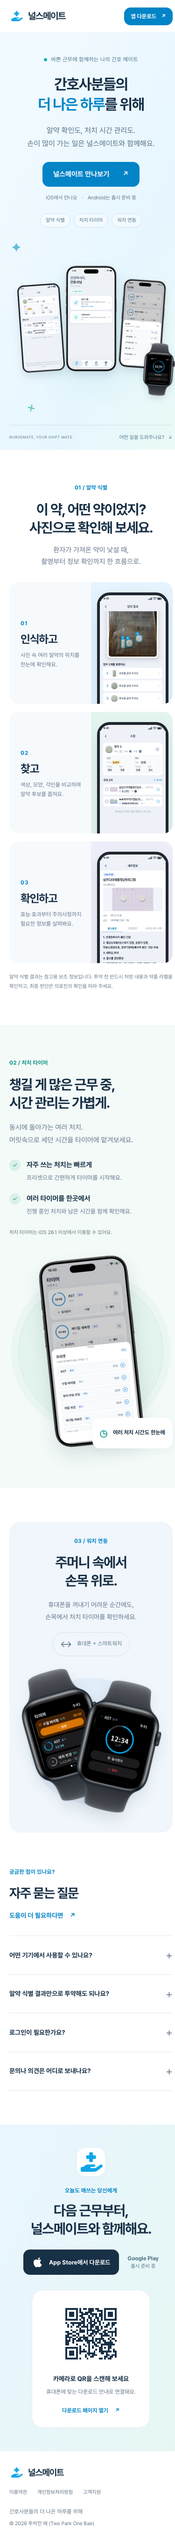
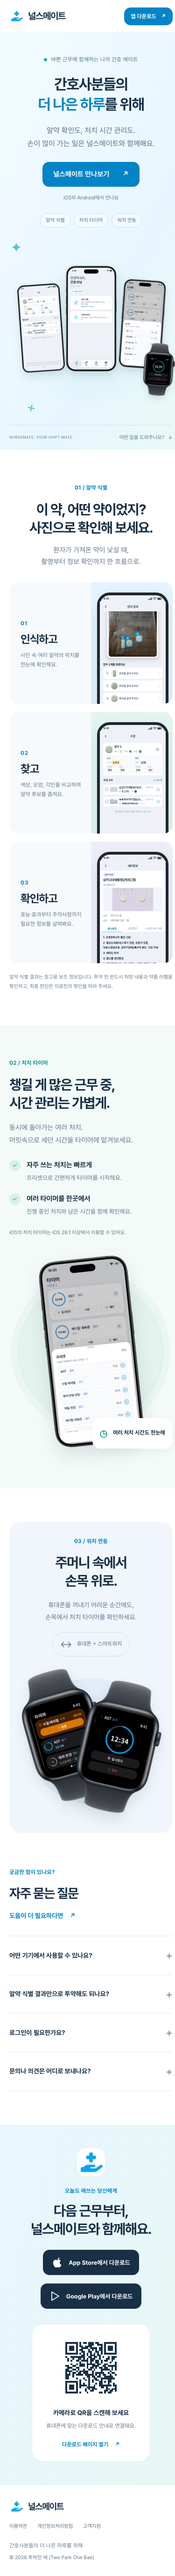
[NM-344] feat: Android 출시 안내 및 Google Play 설치 연결 반영

diff --git a/index.html b/index.html
@@ -21,7 +21,7 @@
   <link rel="icon" type="image/png" href="assets/app-icon.png">
   <link rel="stylesheet" href="landing.css">
   <script type="application/ld+json">
-  {"@context":"https://schema.org","@type":"SoftwareApplication","name":"널스메이트","alternateName":"NurseMate","url":"https://www.nursemate.app/","image":"https://www.nursemate.app/assets/app-icon.png","applicationCategory":"MedicalApplication","operatingSystem":"iOS 17.0 이상","downloadUrl":"https://apps.apple.com/kr/app/id6783877557","description":"간호사를 위한 알약 식별, 처치 타이머 및 워치 연동 앱. 처치 타이머는 iOS 26.1 이상에서 이용할 수 있습니다."}
+  {"@context":"https://schema.org","@type":"SoftwareApplication","name":"널스메이트","alternateName":"NurseMate","url":"https://www.nursemate.app/","image":"https://www.nursemate.app/assets/app-icon.png","applicationCategory":"MedicalApplication","operatingSystem":["iOS 17.0 이상","Android"],"downloadUrl":["https://apps.apple.com/kr/app/id6783877557","https://play.google.com/store/apps/details?id=app.nursemate&hl=ko"],"description":"간호사를 위한 알약 식별, 처치 타이머 및 워치 연동 앱. iOS의 처치 타이머는 iOS 26.1 이상에서 이용할 수 있습니다."}
   </script>
 </head>
 <body>
@@ -36,7 +36,7 @@
         <h1>간호사분들의<br><span>더 나은 하루</span>를 위해</h1>
         <p class="hero-description">알약 확인도, 처치 시간 관리도.<br>손이 많이 가는 일은 널스메이트와 함께해요.</p>
         <a class="button" href="#download">널스메이트 만나보기 <span aria-hidden="true">↗</span></a>
-        <p class="availability">iOS에서 만나요 <span aria-hidden="true">·</span> Android는 출시 준비 중</p>
+        <p class="availability">iOS와 Android에서 만나요</p>
         <div class="hero-tags"><span>알약 식별</span><span>처치 타이머</span><span>워치 연동</span></div>
       </div>
       <div class="hero-visual"><div class="hero-orbit" aria-hidden="true"></div><span class="spark spark-one" aria-hidden="true">✦</span><span class="spark spark-two" aria-hidden="true">＋</span>
@@ -52,14 +52,14 @@
     </div></section>
     <section class="section timer-section"><div class="container feature-grid">
       <div class="timer-visual"><div class="timer-ring" aria-hidden="true"></div><div class="phone timer-phone"><img class="device-screen" src="assets/screen-04-timer.png" width="1170" height="2532" alt="여러 처치의 남은 시간을 관리하는 타이머 화면" loading="lazy"><img class="device-frame" src="assets/frame-iphone16pro-black.png" width="1278" height="2652" alt=""></div><div class="timer-caption"><span aria-hidden="true">◷</span> 여러 처치 시간도 한눈에</div></div>
-      <div class="feature-copy"><p class="eyebrow teal">02 / 처치 타이머</p><h2>챙길 게 많은 근무 중,<br>시간 관리는 가볍게.</h2><p class="section-description">동시에 돌아가는 여러 처치.<br>머릿속으로 세던 시간을 타이머에 맡겨보세요.</p><ul class="feature-list"><li><span aria-hidden="true">✓</span><div><strong>자주 쓰는 처치는 빠르게</strong><p>프리셋으로 간편하게 타이머를 시작해요.</p></div></li><li><span aria-hidden="true">✓</span><div><strong>여러 타이머를 한곳에서</strong><p>진행 중인 처치와 남은 시간을 함께 확인해요.</p></div></li></ul><p class="fine-print">처치 타이머는 iOS 26.1 이상에서 이용할 수 있어요.</p></div>
+      <div class="feature-copy"><p class="eyebrow teal">02 / 처치 타이머</p><h2>챙길 게 많은 근무 중,<br>시간 관리는 가볍게.</h2><p class="section-description">동시에 돌아가는 여러 처치.<br>머릿속으로 세던 시간을 타이머에 맡겨보세요.</p><ul class="feature-list"><li><span aria-hidden="true">✓</span><div><strong>자주 쓰는 처치는 빠르게</strong><p>프리셋으로 간편하게 타이머를 시작해요.</p></div></li><li><span aria-hidden="true">✓</span><div><strong>여러 타이머를 한곳에서</strong><p>진행 중인 처치와 남은 시간을 함께 확인해요.</p></div></li></ul><p class="fine-print">iOS의 처치 타이머는 iOS 26.1 이상에서 이용할 수 있어요.</p></div>
     </div></section>
     <section class="section watch-section"><div class="container watch-panel">
       <div class="feature-copy"><p class="eyebrow blue">03 / 워치 연동</p><h2>주머니 속에서<br>손목 위로.</h2><p class="section-description">휴대폰을 꺼내기 어려운 순간에도,<br>손목에서 처치 타이머를 확인하세요.</p><span class="watch-label"><span aria-hidden="true">↔</span> 휴대폰 + 스마트워치</span></div>
       <div class="watch-visual"><div class="watch-halo" aria-hidden="true"></div><div class="watch watch-back"><img class="watch-screen" src="assets/watch-01-timer-list.png" width="1188" height="1452" loading="lazy" alt="워치 처치 타이머 목록 화면 예시"><img class="watch-frame" src="assets/frame-applewatch-se-midnight.png" width="750" height="1200" loading="lazy" alt=""></div><div class="watch watch-front"><img class="watch-screen" src="assets/watch-02-timer-detail.png" width="1188" height="1452" loading="lazy" alt="워치 타이머 상세 화면 예시"><img class="watch-frame" src="assets/frame-applewatch-se-midnight.png" width="750" height="1200" loading="lazy" alt=""></div></div>
     </div></section>
-    <section class="section faq-section" id="faq"><div class="container faq-grid"><div><p class="eyebrow blue">궁금한 점이 있나요?</p><h2>자주 묻는 질문</h2><a class="text-link" href="support/">도움이 더 필요하다면 <span aria-hidden="true">↗</span></a></div><div class="faq-list"><details><summary>어떤 기기에서 사용할 수 있나요?<span aria-hidden="true">+</span></summary><p>현재 iOS 앱을 App Store에서 다운로드할 수 있어요. 앱은 iOS 17 이상, 처치 타이머는 iOS 26.1 이상에서 이용할 수 있습니다. Android 앱은 출시 준비 중이에요.</p></details><details><summary>알약 식별 결과만으로 투약해도 되나요?<span aria-hidden="true">+</span></summary><p>알약 식별 결과는 참고용 보조 정보예요. 투약 전 반드시 처방 내용과 약품 라벨을 확인하고, 최종 판단은 의료진의 확인을 따라 주세요.</p></details><details><summary>로그인이 필요한가요?<span aria-hidden="true">+</span></summary><p>네, 널스메이트는 로그인 후 이용할 수 있어요. Google, Apple, 카카오 계정으로 시작할 수 있습니다.</p></details><details><summary>문의나 의견은 어디로 보내나요?<span aria-hidden="true">+</span></summary><p><a href="support/">지원 페이지</a>를 방문하거나 <a href="mailto:2park1bae@gmail.com">2park1bae@gmail.com</a>으로 보내주세요. 현장의 의견을 기다리고 있어요.</p></details></div></div></section>
-    <section class="download-section" id="download"><div class="container download-grid"><div><img class="download-icon" src="assets/app-icon.png" width="68" height="68" loading="lazy" alt="널스메이트 앱 아이콘"><p class="eyebrow blue">오늘도 애쓰는 당신에게</p><h2>다음 근무부터,<br>널스메이트와 함께해요.</h2><div class="store-buttons"><a class="button store-button" href="https://apps.apple.com/kr/app/id6783877557"><svg viewBox="0 0 24 24" width="24" height="24" aria-hidden="true"><path fill="currentColor" d="M16.5 2c.1 1.1-.4 2.1-1.1 2.9-.8.8-1.8 1.3-2.9 1.2-.1-1 .4-2.1 1.1-2.8.8-.8 1.9-1.3 2.9-1.3ZM20.8 17.3c-.5 1.2-.8 1.7-1.5 2.7-.9 1.2-2.1 2.7-3.6 2.7-1.3 0-1.6-.8-3.4-.8s-2.1.8-3.4.8c-1.5.1-2.6-1.3-3.5-2.5C2.9 16.7 2.2 11.8 3.7 9.2c1.1-1.9 2.9-3 4.6-3 1.4 0 2.3.8 3.5.8 1.1 0 1.9-.8 3.5-.8 1.4 0 3 .8 4.1 2.1-3.6 2-3 7.1 1.4 9Z"/></svg>App Store에서 다운로드</a><span class="android-pending">Google Play <span>출시 준비 중</span></span></div></div><div class="qr-card"><img src="assets/download-qr.svg" width="156" height="156" loading="lazy" alt="널스메이트 다운로드 페이지로 연결되는 QR 코드"><strong>카메라로 QR을 스캔해 보세요</strong><p>휴대폰에 맞는 다운로드 안내로 연결돼요.</p><a class="text-link" href="download/">다운로드 페이지 열기 <span aria-hidden="true">↗</span></a></div></div></section>
+    <section class="section faq-section" id="faq"><div class="container faq-grid"><div><p class="eyebrow blue">궁금한 점이 있나요?</p><h2>자주 묻는 질문</h2><a class="text-link" href="support/">도움이 더 필요하다면 <span aria-hidden="true">↗</span></a></div><div class="faq-list"><details><summary>어떤 기기에서 사용할 수 있나요?<span aria-hidden="true">+</span></summary><p>iOS는 App Store에서, Android는 Google Play에서 다운로드할 수 있어요. iOS 앱은 iOS 17 이상, iOS의 처치 타이머는 iOS 26.1 이상에서 이용할 수 있습니다.</p></details><details><summary>알약 식별 결과만으로 투약해도 되나요?<span aria-hidden="true">+</span></summary><p>알약 식별 결과는 참고용 보조 정보예요. 투약 전 반드시 처방 내용과 약품 라벨을 확인하고, 최종 판단은 의료진의 확인을 따라 주세요.</p></details><details><summary>로그인이 필요한가요?<span aria-hidden="true">+</span></summary><p>네, 널스메이트는 로그인 후 이용할 수 있어요. Google, Apple, 카카오 계정으로 시작할 수 있습니다.</p></details><details><summary>문의나 의견은 어디로 보내나요?<span aria-hidden="true">+</span></summary><p><a href="support/">지원 페이지</a>를 방문하거나 <a href="mailto:2park1bae@gmail.com">2park1bae@gmail.com</a>으로 보내주세요. 현장의 의견을 기다리고 있어요.</p></details></div></div></section>
+    <section class="download-section" id="download"><div class="container download-grid"><div><img class="download-icon" src="assets/app-icon.png" width="68" height="68" loading="lazy" alt="널스메이트 앱 아이콘"><p class="eyebrow blue">오늘도 애쓰는 당신에게</p><h2>다음 근무부터,<br>널스메이트와 함께해요.</h2><div class="store-buttons"><a class="button store-button" href="https://apps.apple.com/kr/app/id6783877557"><svg viewBox="0 0 24 24" width="24" height="24" aria-hidden="true"><path fill="currentColor" d="M16.5 2c.1 1.1-.4 2.1-1.1 2.9-.8.8-1.8 1.3-2.9 1.2-.1-1 .4-2.1 1.1-2.8.8-.8 1.9-1.3 2.9-1.3ZM20.8 17.3c-.5 1.2-.8 1.7-1.5 2.7-.9 1.2-2.1 2.7-3.6 2.7-1.3 0-1.6-.8-3.4-.8s-2.1.8-3.4.8c-1.5.1-2.6-1.3-3.5-2.5C2.9 16.7 2.2 11.8 3.7 9.2c1.1-1.9 2.9-3 4.6-3 1.4 0 2.3.8 3.5.8 1.1 0 1.9-.8 3.5-.8 1.4 0 3 .8 4.1 2.1-3.6 2-3 7.1 1.4 9Z"/></svg>App Store에서 다운로드</a><a class="button store-button" href="https://play.google.com/store/apps/details?id=app.nursemate&amp;hl=ko"><svg viewBox="0 0 24 24" width="24" height="24" aria-hidden="true"><path d="m5 3 15 9-15 9V3Z" fill="none" stroke="currentColor" stroke-width="1.8" stroke-linejoin="round"/></svg>Google Play에서 다운로드</a></div></div><div class="qr-card"><img src="assets/download-qr.svg" width="156" height="156" loading="lazy" alt="널스메이트 다운로드 페이지로 연결되는 QR 코드"><strong>카메라로 QR을 스캔해 보세요</strong><p>휴대폰에 맞는 다운로드 안내로 연결돼요.</p><a class="text-link" href="download/">다운로드 페이지 열기 <span aria-hidden="true">↗</span></a></div></div></section>
   </main>
   <footer class="site-footer"><div class="container"><div class="footer-top"><a class="brand" href="./"><img src="assets/app-icon.png" width="32" height="32" alt=""><span>널스메이트</span></a><nav aria-label="서비스 정보"><a href="terms/">이용약관</a><a href="privacy/">개인정보처리방침</a><a href="support/">고객지원</a></nav></div><div class="footer-bottom"><span>간호사분들의 더 나은 하루를 위해</span><span>© 2026 투박한 배 (Two Park One Bae)</span></div></div></footer>
 </body>

diff --git a/download/index.html b/download/index.html
@@ -5,7 +5,7 @@
   <meta name="viewport" content="width=device-width, initial-scale=1">
   <meta name="robots" content="noindex, follow">
   <title>널스메이트 다운로드</title>
-  <meta name="description" content="휴대폰에 맞는 널스메이트 앱을 다운로드하세요. iOS 출시 완료, Android 출시 준비 중.">
+  <meta name="description" content="휴대폰에 맞는 널스메이트 앱을 다운로드하세요. App Store와 Google Play에서 만나보세요.">
   <link rel="icon" href="../assets/app-icon.png">
   <link rel="stylesheet" href="../landing.css">
   <script src="download.js" defer></script>
@@ -15,13 +15,12 @@
     <img class="download-icon" src="../assets/app-icon.png" width="68" height="68" alt="널스메이트 앱 아이콘">
     <p class="eyebrow blue">나의 간호 메이트</p>
     <h1>널스메이트 다운로드</h1>
-    <p class="download-status" id="download-status" aria-live="polite">iPhone에서는 App Store에서 다운로드해 주세요.<br>Android 앱은 출시 준비 중이에요.</p>
+    <p class="download-status" id="download-status" aria-live="polite">사용 중인 기기에 맞는 스토어를 선택해 주세요.<br>iPhone은 App Store, Android는 Google Play에서 다운로드할 수 있어요.</p>
     <div class="store-buttons">
       <a class="button store-button" id="ios-link" href="https://apps.apple.com/kr/app/id6783877557">App Store에서 다운로드 <span aria-hidden="true">↗</span></a>
-      <a class="button store-button" id="android-link" hidden>Google Play에서 다운로드 <span aria-hidden="true">↗</span></a>
-      <span class="android-pending" id="android-pending">Google Play <span>출시 준비 중</span></span>
+      <a class="button store-button" id="android-link" href="https://play.google.com/store/apps/details?id=app.nursemate&amp;hl=ko">Google Play에서 다운로드 <span aria-hidden="true">↗</span></a>
     </div>
-    <p class="manual-note">자동으로 연결되지 않으면 위 버튼을 눌러 주세요.<br>iOS 17 이상 · 처치 타이머는 iOS 26.1 이상</p>
+    <p class="manual-note">자동으로 연결되지 않으면 위 버튼을 눌러 주세요.<br>iOS 앱: iOS 17 이상 · iOS 처치 타이머: iOS 26.1 이상</p>
     <a class="text-link" href="../">널스메이트 알아보기 <span aria-hidden="true">→</span></a>
   </main>
 </body>

diff --git a/download/download.js b/download/download.js
@@ -1,9 +1,9 @@
 'use strict';
 
-// Android 출시 후 공개된 Google Play URL을 입력합니다.
+// 공개된 앱 설치 주소. HTML에도 수동 설치 링크를 제공합니다.
 const STORE_LINKS = Object.freeze({
   ios: 'https://apps.apple.com/kr/app/id6783877557',
-  android: null,
+  android: 'https://play.google.com/store/apps/details?id=app.nursemate&hl=ko',
 });
 
 function detectPlatform(navigatorInfo) {
@@ -17,16 +17,7 @@ function detectPlatform(navigatorInfo) {
 
 const platform = detectPlatform(navigator);
 const statusText = document.getElementById('download-status');
-if (STORE_LINKS.android) {
-  const androidLink = document.getElementById('android-link');
-  androidLink.href = STORE_LINKS.android;
-  androidLink.hidden = false;
-  document.getElementById('android-pending').hidden = true;
-}
-
-if (platform === 'android' && !STORE_LINKS.android) {
-  statusText.textContent = 'Android 앱은 출시 준비 중이에요. 조금만 기다려 주세요!';
-} else if (STORE_LINKS[platform]) {
+if (STORE_LINKS[platform]) {
   statusText.textContent = platform === 'ios'
     ? 'App Store로 이동하고 있어요. 연결되지 않으면 아래 버튼을 눌러 주세요.'
     : 'Google Play로 이동하고 있어요. 연결되지 않으면 아래 버튼을 눌러 주세요.';

diff --git a/README.md b/README.md
@@ -5,7 +5,7 @@ App Store 심사 필수 URL(개인정보처리방침·지원)을 호스팅하고
 
 ## 구성
 - `/` — 랜딩
-- `/download/` — QR 다운로드 연결 (iOS: App Store, Android: 출시 준비 안내)
+- `/download/` — QR 다운로드 연결 (iOS: App Store, Android: Google Play)
 - `/privacy/` — 개인정보처리방침 (내용: NM-299)
 - `/support/` — 지원 (내용: NM-300)
 - `/terms/` — 이용약관
@@ -23,7 +23,7 @@ App Store 심사 필수 URL(개인정보처리방침·지원)을 호스팅하고
 python3 -m http.server 8000
 ```
 
-브라우저에서 `http://localhost:8000/`을 연다. 랜딩·다운로드는 `landing.css`, 지원·정책 페이지는 `styles.css`를 사용한다.
+브라우저에서 `http://localhost:8000/`을 연다. 랜딩·지원·다운로드는 `landing.css`, 정책 페이지는 `styles.css`를 사용한다.
 
 ## 시안 검토
 
@@ -33,4 +33,4 @@ python3 -m http.server 8000
 - [지원 페이지 모바일 시안](docs/preview/support-mobile.png)
 - 검토 항목: 메인 화면의 폰·워치 배치, 실제 앱 화면의 가독성, 기능 설명, 다운로드 안내.
 
-QR의 목적지는 `https://www.nursemate.app/download/`이므로 해당 경로를 배포한 뒤 실제 QR 연결을 확인한다. Android 출시 시 `download/download.js`의 `STORE_LINKS.android`와 출시 안내 문구를 갱신한다. Google Search Console·네이버 서치어드바이저 소유권 확인 및 사이트맵 제출은 별도 등록 작업이다.
+QR의 목적지는 `https://www.nursemate.app/download/`이므로 해당 경로를 배포한 뒤 실제 QR 연결을 확인한다. iPhone·iPad는 App Store로, Android는 Google Play로 자동 연결한다. PC와 JavaScript가 꺼진 환경에서는 두 스토어의 수동 설치 링크를 제공한다. Google Search Console·네이버 서치어드바이저 소유권 확인 및 사이트맵 제출은 별도 등록 작업이다.
